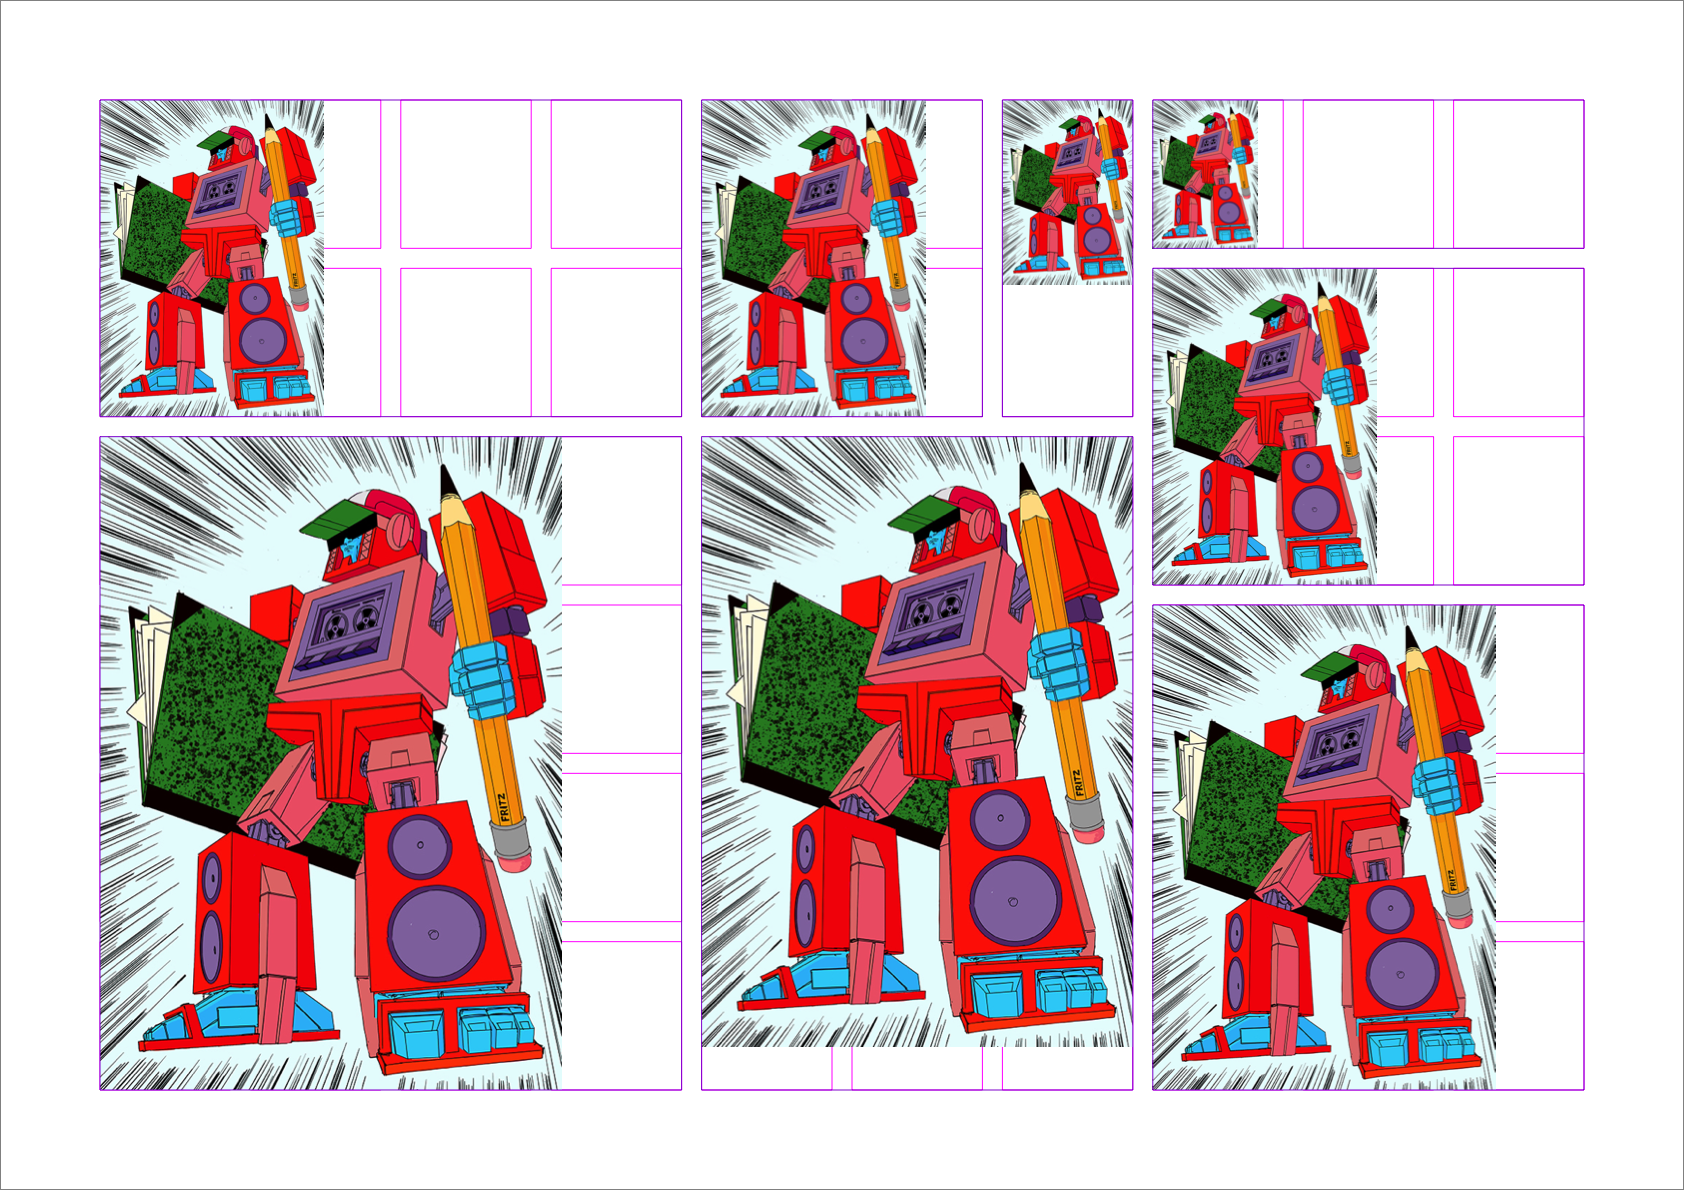
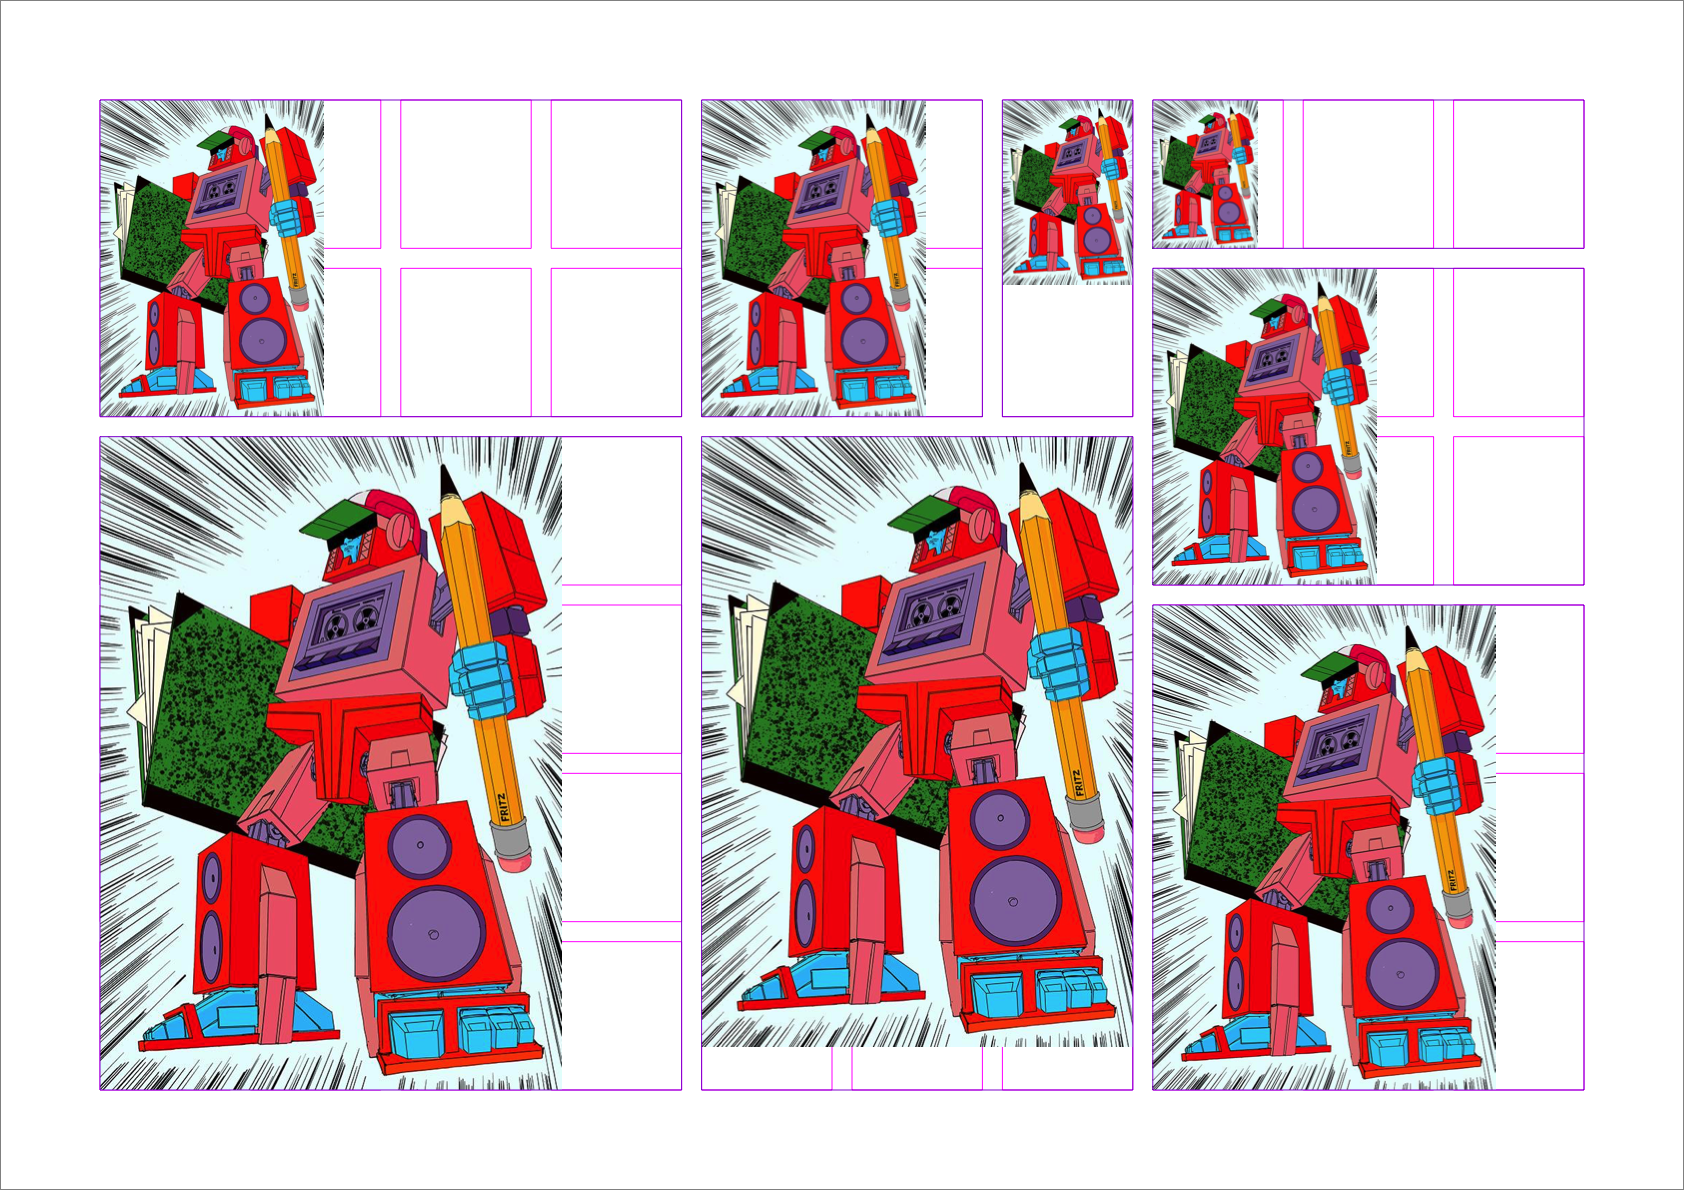
Fix image cropping black box

diff --git a/drawBotGrid/image.py b/drawBotGrid/image.py
@@ -100,6 +100,10 @@ def _crop_image_with_anchor(input_path, output_path, anchor, crop_width, crop_he
     
     anchor_x, anchor_y = anchor
     im_width, im_height = db.imageSize(input_path)
+
+    crop_width = min(crop_width, im_width)
+    crop_height = min(crop_height, im_height)
+
     if anchor_x == "left":
         crop_x = 0
     elif anchor_x == "right":
@@ -110,7 +114,7 @@ def _crop_image_with_anchor(input_path, output_path, anchor, crop_width, crop_he
     if anchor_y == "bottom":
         crop_y = 0
     elif anchor_y == "top":
-        crop_y = im_height- crop_height
+        crop_y = im_height - crop_height
     elif anchor_y == "center":
         crop_y = (im_height - crop_height)/2
 
@@ -118,6 +122,8 @@ def _crop_image_with_anchor(input_path, output_path, anchor, crop_width, crop_he
     ## as drawBot imageObject.crop 
     ## seems to produce blurred borders
 
+    crop_x = min(crop_x, im_width)
+    crop_y = min(crop_y, im_height)
     im = PIL.Image.open(input_path)
     im = im.crop((crop_x, crop_y, crop_x+crop_width, crop_y+crop_height))
     im.save(output_path)

diff --git a/drawBotGrid/docs/snippet-160-imageBox-fit.py b/drawBotGrid/docs/snippet-160-imageBox-fit.py
@@ -10,7 +10,7 @@ newPage("A4Landscape")
 grid = Grid.from_margins((-50, -50, -50, -50), column_subdivisions=10, row_subdivisions=6)
 grid.draw()
 
-img_path = "https://raw.githubusercontent.com/mathieureguer/drawbotgrid/main/drawBotGrid/docs/drawMech-small.jpg"
+img_path = "drawMech-small.jpg"
 imageBox(img_path, (grid.columns[0], grid.rows[0], grid.columns*4, grid.rows*4), draw_box_frame=True)
 imageBox(img_path, (grid.columns[0], grid.rows[4], grid.columns*4, grid.rows*2), draw_box_frame=True)
 imageBox(img_path, (grid.columns[4], grid.rows[0], grid.columns*3, grid.rows*4), draw_box_frame=True)

diff --git a/setup.py b/setup.py
@@ -7,7 +7,7 @@ from setuptools import setup
 #         return f.read()
 
 setup(name="drawBotGrid",
-      version="0.1.2",
+      version="0.1.3",
       description="a little helper for grid based layout in DrawBot",
       long_description="TBD",
       classifiers=[
